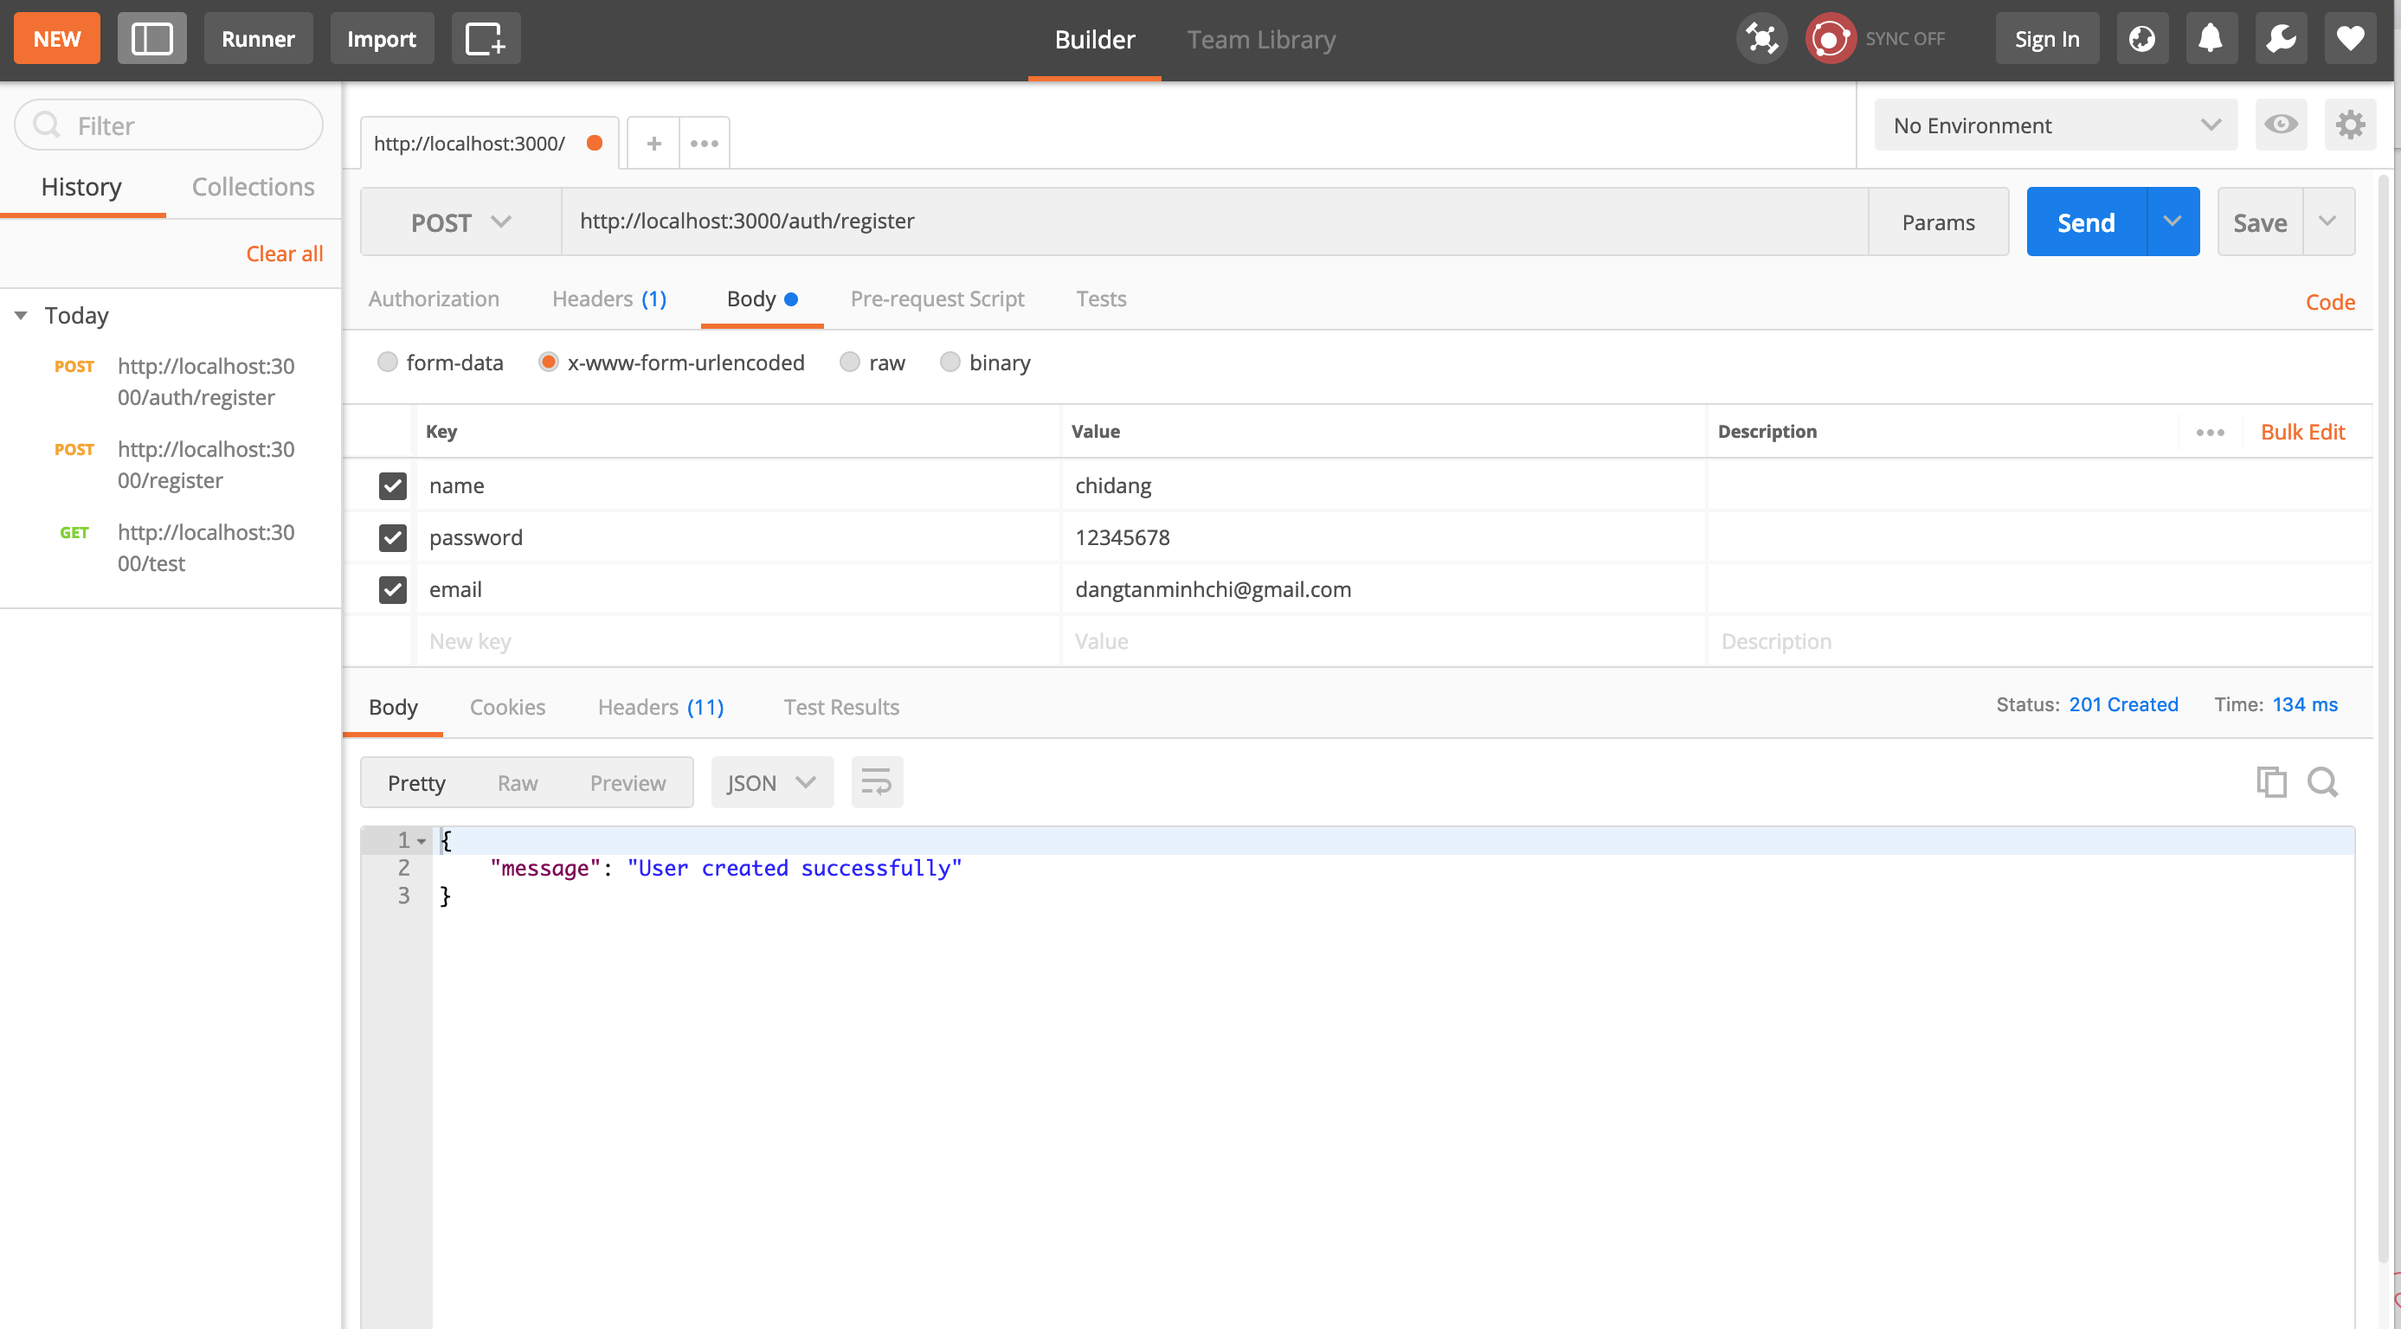
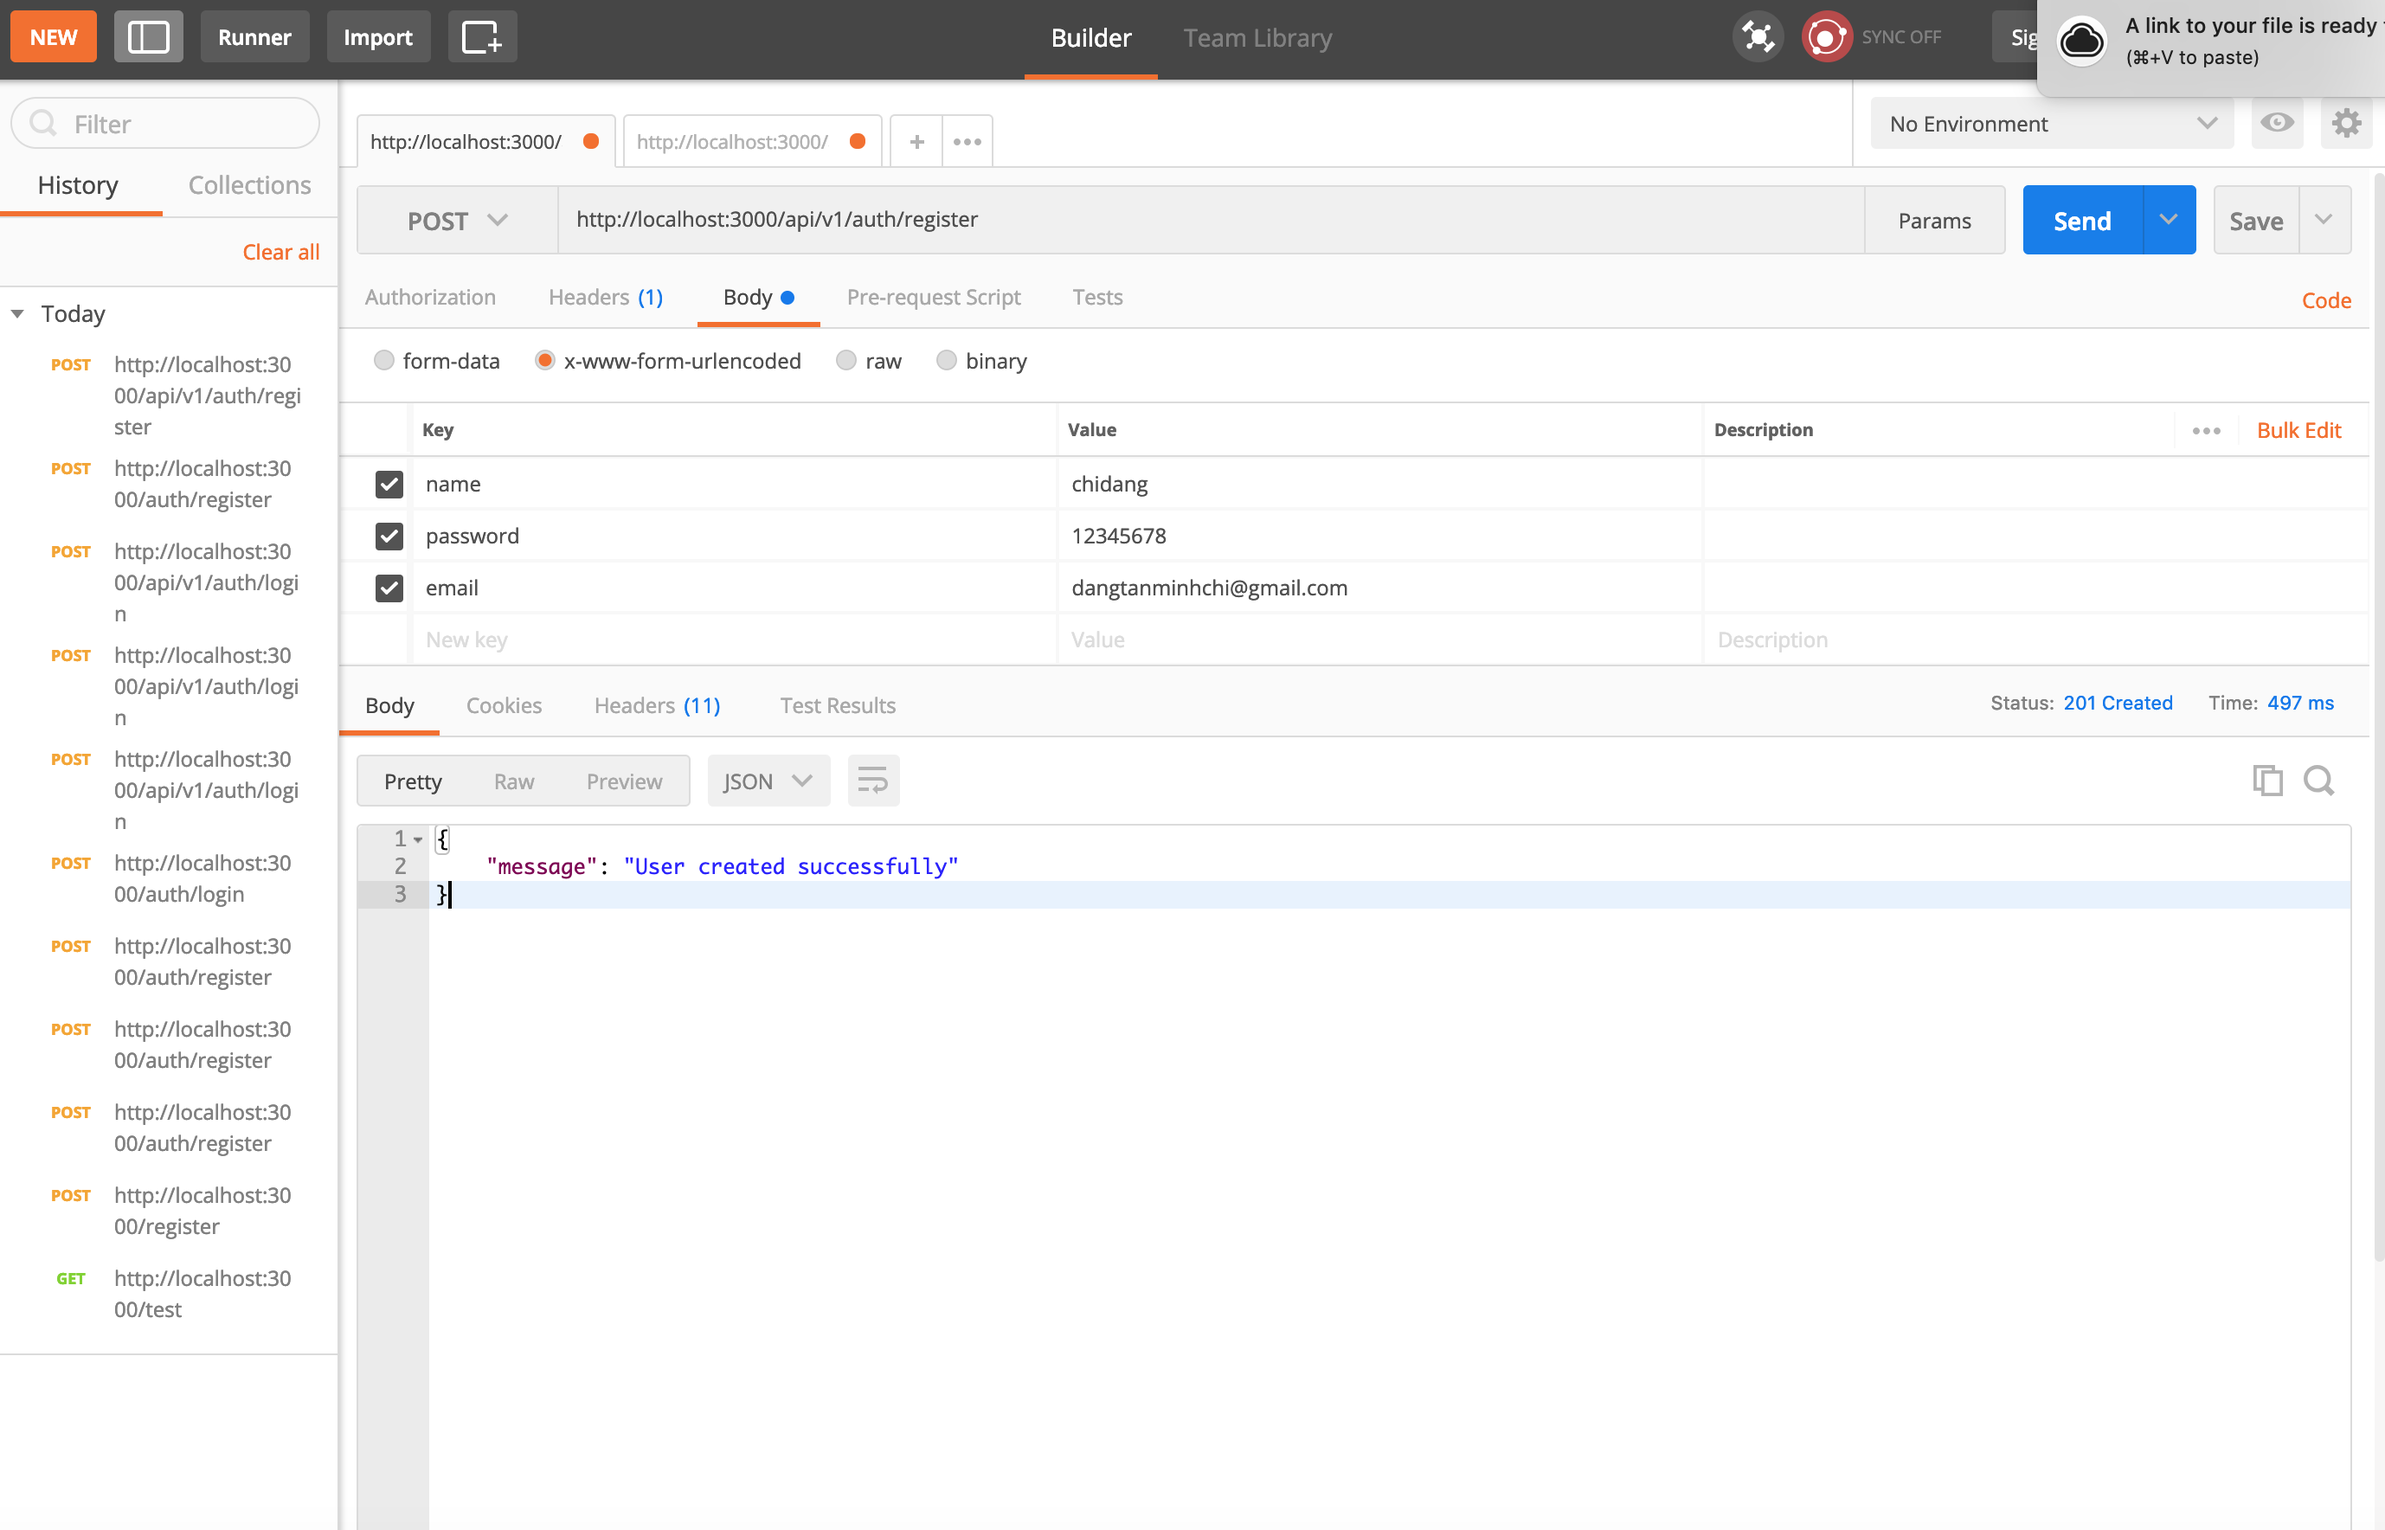
Upate API User Flow

diff --git a/config/routes.rb b/config/routes.rb
@@ -1,6 +1,12 @@
 Rails.application.routes.draw do
-  post 'auth/register', to: 'users#register'
-  post 'auth/login', to: 'users#login'
-  get 'test', to: 'users#test'
+  api_version(
+    module: 'Api::V1',
+    path: { value: 'api/v1' }
+  ) do
+    post 'auth/register', to: 'users#register'
+    post 'auth/login', to: 'users#login'
+    get 'test', to: 'users#test'
+  end
+  
   # For details on the DSL available within this file, see http://guides.rubyonrails.org/routing.html
 end

diff --git a/app/controllers/api/v1/authentication_controller.rb b/app/controllers/api/v1/authentication_controller.rb
@@ -1,4 +1,4 @@
-class ApplicationController < ActionController::API
+class Api::V1::AuthenticationController < ActionController::API
   before_action :authenticate_request
   attr_reader :current_user
   

diff --git a/app/controllers/api/v1/users_controller.rb b/app/controllers/api/v1/users_controller.rb
@@ -1,4 +1,4 @@
-class UsersController < ApplicationController
+class Api::V1::UsersController < ApplicationController
   def register
     @user = User.create(user_params)
    if @user.save

diff --git a/doc/api/docs/user_flow.md b/doc/api/docs/user_flow.md
@@ -1,0 +1,71 @@
+# User Flow API
+
+## Register
+
+### POST register
+
+```
+API: http://localhost:3000/api/v1/auth/register
+```
+
+##### Parameters - Request
+|  Parameter                     |  Example                 |  Optional    |
+| ------------------------------ | --------------------     | :----------: |
+| name                           | chidang                  | no           |
+| password                       | 123456                   | no           |
+| email                          | dangtanminhchi@gmail.com | no           |
+
+
+##### Example Request
+
+```json
+{
+  
+    "name": "chidang",
+    "password": "12345678",
+    "email": "dangtanminhchi@gmail.com" 
+}
+```
+
+##### Example Response
+
+```json
+{
+    "message": "User created successfully"
+}
+```
+
+## Login
+
+### POST login
+
+```
+API: http://localhost:3000/api/v1/auth/login
+```
+
+##### Parameters - Request
+|  Parameter                     |  Example                 |  Optional    |
+| ------------------------------ | --------------------     | :----------: |
+| email                          | dangtanminhchi@gmail.com | no           |
+| password                       | 123456                   | no           |
+
+
+##### Example Request
+
+```json
+{
+  
+    "email": "dangtanminhchi@gmail.com",
+    "password": "12345678",
+    
+}
+```
+
+##### Example Response
+
+```json
+{
+    "access_token": "eyJ0eXAiOiJKV1QiLCJhbGciOiJIUzI1Ni...",
+    "message": "Login Successful"
+}
+```
